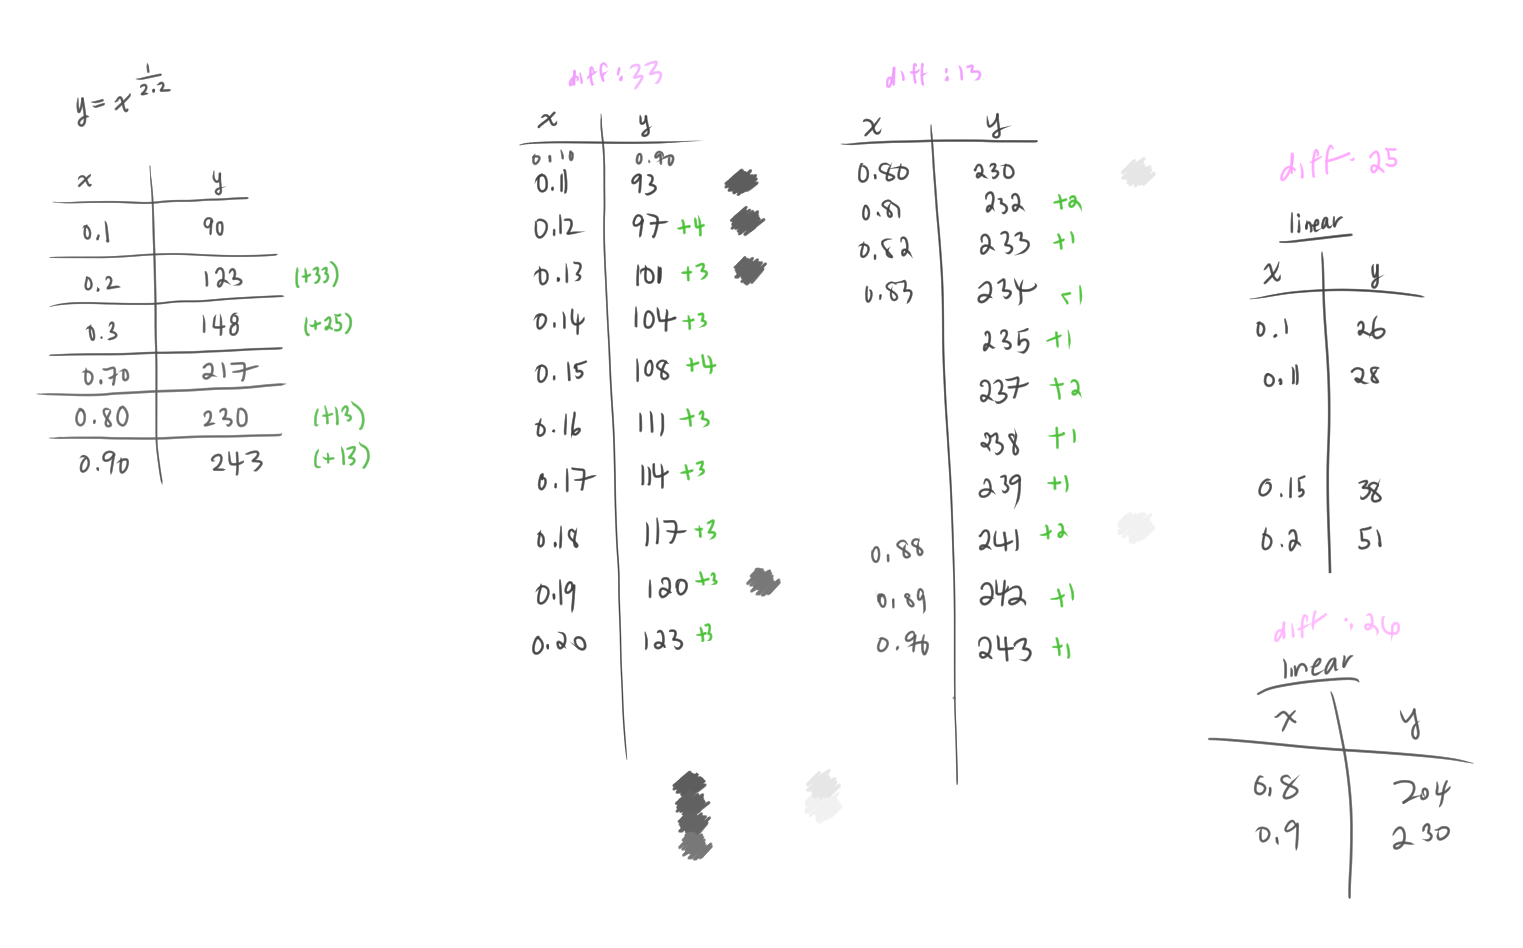
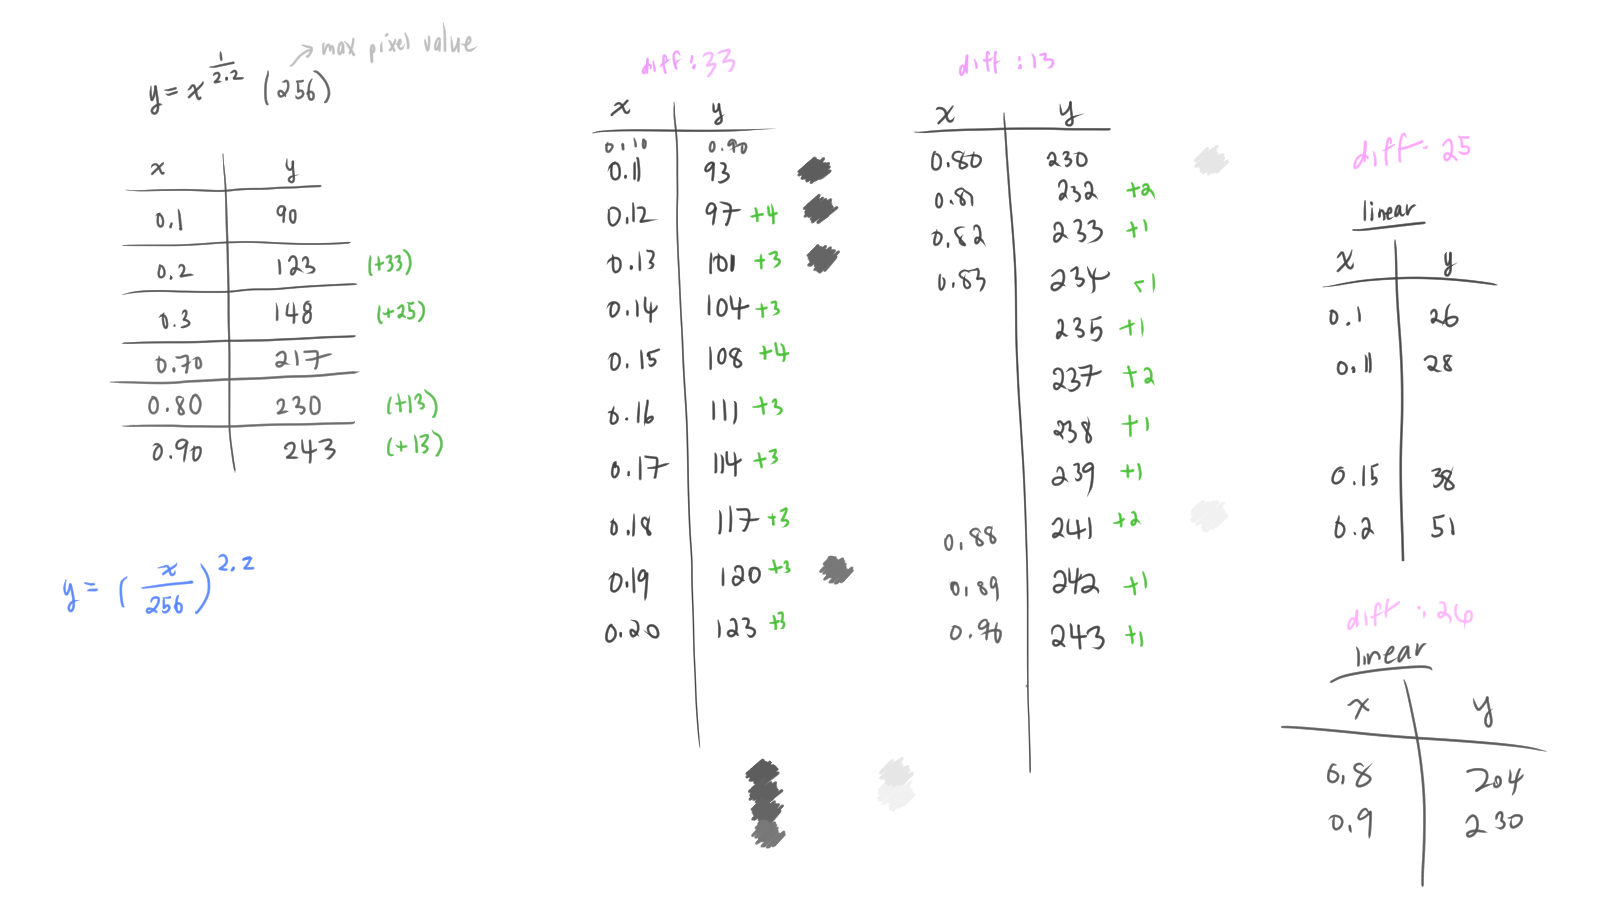
Spent too much time on gamma

diff --git a/cos-cuatro-dos-seis/assignments/Assignment-1/js/filters.js b/cos-cuatro-dos-seis/assignments/Assignment-1/js/filters.js
@@ -157,13 +157,36 @@ Filters.contrastFilter = function(image, ratio) {
     return image;
 };
 
-// Note that the argument here is log(gamma)
+// Note that the argument here is log_e(gamma)
+// log_e(gamma) is the value directly read from the UI...
+// ? why is it called `logOfGamma`?
 Filters.gammaFilter = function(image, logOfGamma) {
+    // Math.exp(x) = e^x
+    // e^(log_e(x)) = e^(ln(x)) = x
+    // For y = e^x
+    //  If x is negative, y [0, 1) (fractional)
+    //      This would give us the gamma curve that looks like the human perception of luminance
+    //  If x is positive, y >= 1
+    console.log("logOfGamma: " + logOfGamma);
     const gamma = Math.exp(logOfGamma);
+    console.log("Applying gamma: " + gamma);
     // ----------- STUDENT CODE BEGIN ------------
     // ----------- Our reference solution uses 9 lines of code.
     // ----------- STUDENT CODE END ------------
-    Gui.alertOnce ('gammaFilter is not implemented yet');
+    console.log("gammaFilter");
+    for (let x=0; x<image.width; x++) {
+        for (let y=0; y<image.width; y++) {
+            // Iterate through the color channels
+            const pixel = image.getPixel(x, y);
+            for (let c=0; c<3; c++) {
+                pixel.data[c] = pixel.data[c] ** gamma;
+            }
+
+            // Update image
+            image.setPixel(x, y, pixel);
+        }
+    }
+
     return image;
 };
 

diff --git a/cos-cuatro-dos-seis/assignments/Assignment-1/notes/README.md b/cos-cuatro-dos-seis/assignments/Assignment-1/notes/README.md
@@ -91,12 +91,33 @@ lightness ~= luminance ^ (1/3)
 [Displaying images to the screen (Scratchapixel)](https://www.scratchapixel.com/lessons/digital-imaging/digital-images/display-image-to-screen)
 * Now our screen's light intensity is linear (unlike CRTs which has a non-linear function of input voltage vs luminance)
 * But we still apply gamma correction because it allows us to have larger varations of luminance for darker shades than lighter shades: **gamma encoding**
-  * Actual luminance goes from `0.1` -> `0.2`, the percieved lightness difference is much larger than actual luminance increasing from `0.8` -> `0.9`
-* *Gamma encoding* is different from actually displaying the image
-  * Once we applied *gamma encoding*, we want to display it on a screen that has linear luminance
-  * Apply the inverse gamma to the gamma-encoded image to display linearly
+  * Apply a gamma `1/γ` to the intensity value, convert it to a byte `[0. 255]` and store this value in the image file
+    * Actual luminance goes from `0.1` -> `0.2`, the percieved lightness difference is much larger than actual luminance increasing from `0.8` -> `0.9`
 
 ![Keine Ahnung](images/nonsense-not-really-maf.png)
+
+*Gamma encoding* is different from actually displaying the image
+* Once we applied *gamma encoding* to an image, we want to display it on a screen *in linear space*
+* Apply the inverse gamma to the gamma-encoded image so that we can *perceive* the image brightness as increasing linearly
+* Gamma encoding is applied *independent* of the display technology!!
+  * It is merely a tool to encode the brightness more efficiently for human perception
+
+![Gamma encoding](images/gamma-encoding.png)
+
+TILs
+* [**psychophysics**](https://en.wikipedia.org/wiki/Psychophysics) tries to quantify the relationship between physical stimuli and how we perceived them / sensations
+* The brightness humans perceived is part of [**Stevens Power Law**](https://en.wikipedia.org/wiki/Stevens%27s_power_law)
+
+
+I think nothing above had anything to do with the filter OTL
+
+We apply `e^x` to the value from the UI `x`. If `x` is negative, we get a fractional exponent, and otherwise we get a postive value > 1. This gives us to exponent to raise each pixel value (`gamma` value):
+
+![e^x](images/e-to-da-x.png)
+
+With a fractional exponent, we get brighter images, and exponents > 1, we get darker images:
+
+![Gamma results](images/gamma-results.png)
 
 
 ## Color Operations
